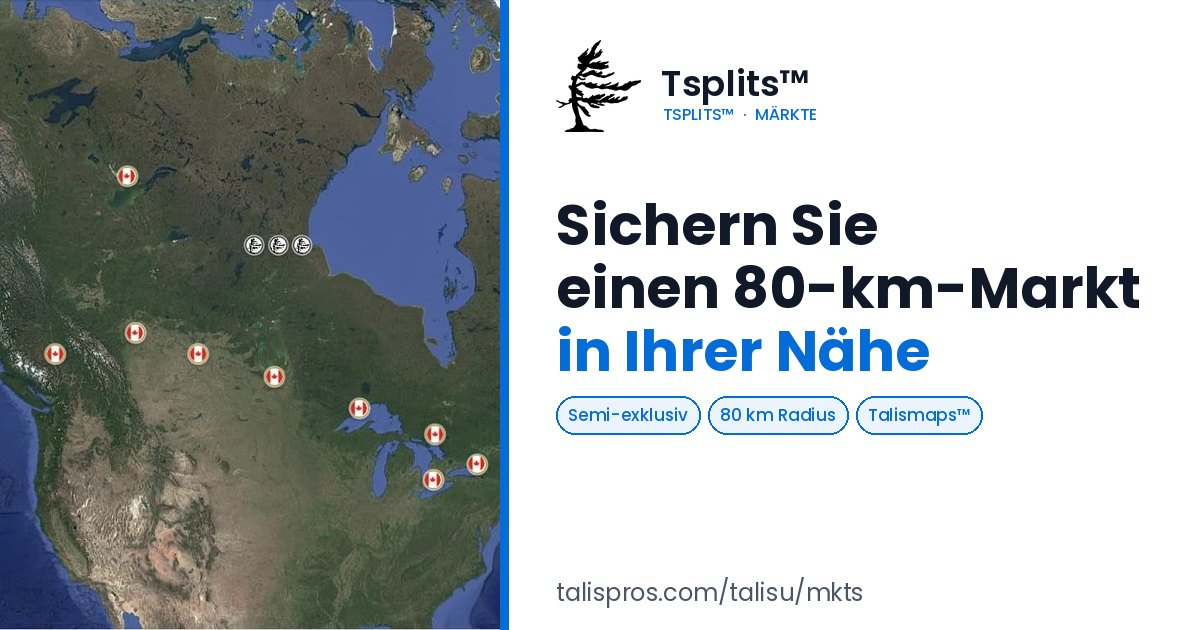
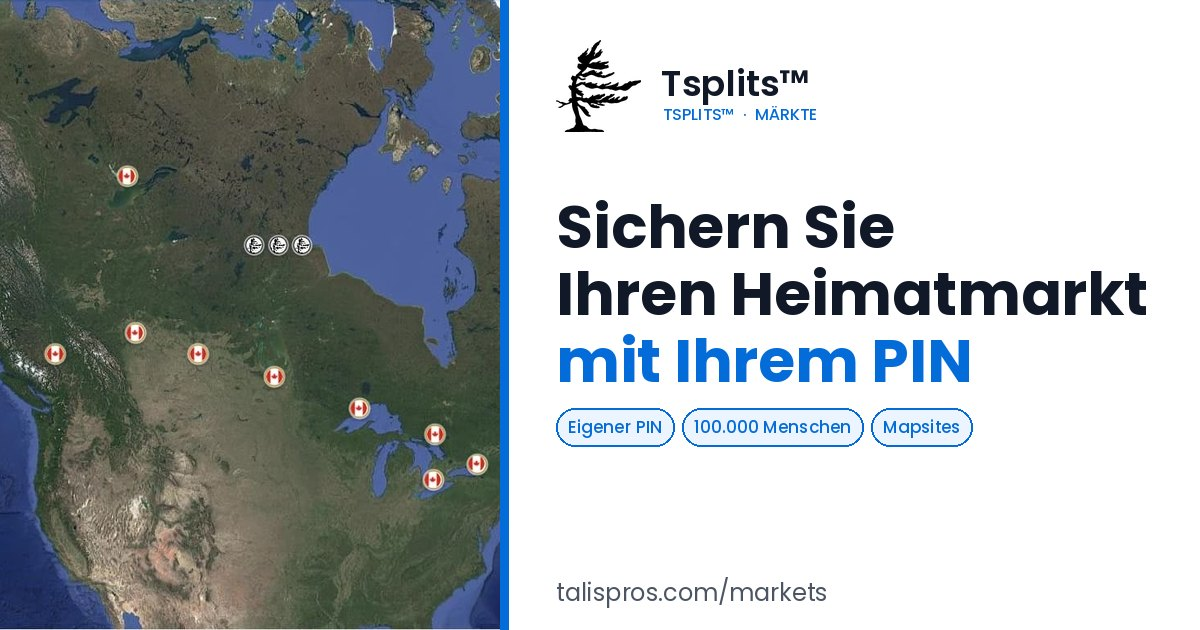
Home Market headline above the map; Markets SEO and footers no longer say one PIN is one market

Changed region(s): [[0.4625, 0.4222, 0.9558, 0.7238], [0.4625, 0.3016, 0.74, 0.3921], [0.6167, 0.9048, 0.74, 0.9651]]

diff --git a/components/talispros/home-market/HomeMarketPage.tsx b/components/talispros/home-market/HomeMarketPage.tsx
@@ -49,17 +49,20 @@ export default function HomeMarketPage({ initialMarket = null }: { initialMarket
         <AishaColumn />
       </aside>
       <section className="order-1 flex min-h-0 flex-col lg:order-2">
-        {/* The Tsplits™ Mapsites header stays; the map takes the old headline row (Ralf, Nov 23). */}
-        <div className="bg-white px-5 py-2.5 text-center sm:px-6 lg:py-2">
+        {/* Header, then the headline directly above the map on every screen size (Ralf, Nov 23). */}
+        <div className="bg-white px-5 pb-2 pt-2.5 text-center sm:px-6">
           <p className="m-0 text-[11px] font-semibold uppercase tracking-[0.16em] text-neutral-500" data-testid="home-market-kicker">
             {t.kicker}
           </p>
-          {/* Phones: the map comes first, so the headline sits above it. */}
-          <p className="m-0 mt-1 text-[17px] font-semibold leading-snug text-neutral-950 lg:hidden" data-testid="home-market-select-pin-mobile">
+          <h1
+            className="m-0 mt-1 text-[17px] font-semibold leading-snug text-neutral-950 sm:text-[20px]"
+            style={{ color: "#0a0a0a", fontSize: "clamp(17px, 1.6vw, 20px)", marginBottom: 0 }}
+            data-testid="home-market-select-pin"
+          >
             {t.selectPin}
-          </p>
+          </h1>
         </div>
-        <div className="relative h-[66dvh] min-h-[22rem] lg:h-auto lg:min-h-0 lg:flex-1">
+        <div className="relative h-[70dvh] min-h-[24rem] lg:h-auto lg:min-h-0 lg:flex-1">
           <HomeMarketMap placed={placed} onPlace={setPlaced} onPersonalize={setMarket} />
         </div>
       </section>
@@ -89,12 +92,6 @@ function AishaColumn() {
           <p className="m-0 mt-0.5 text-[22px] font-semibold text-neutral-950">{t.aishaName}</p>
         </div>
       </div>
-      <h1
-        className="m-0 mt-4 hidden rounded-2xl rounded-tl-sm bg-[#f4f6f8] px-4 py-3 text-[18px] font-semibold leading-snug text-neutral-950 lg:block"
-        data-testid="home-market-select-pin"
-      >
-        {t.selectPin}
-      </h1>
 
       <div className="mt-6 overflow-hidden rounded-2xl bg-white shadow-[0_4px_18px_rgba(0,0,0,0.08)] ring-1 ring-black/5" data-testid="home-market-sample">
         <div className="flex items-center justify-between bg-[#046BD9] px-4 py-2.5 text-white">

diff --git a/lib/i18n/dictionaries/de.ts b/lib/i18n/dictionaries/de.ts
@@ -767,7 +767,7 @@ export const de: Dictionary = {
     ],
     pmcTagline: "Bewerben - Verwalten - Kooperieren",
     footer:
-      "Wählen Sie den PIN, der Ihnen am nächsten liegt, um einen Markt im Umkreis von 80 Kilometern um einen Mittelpunkt zu beanspruchen.",
+      "Sichern Sie Ihren Heimatmarkt, indem Sie Ihren eigenen PIN auf der Mapsites-Karte setzen.",
     canada: "Kanada",
     canadaMarkets: "Märkte Kanada",
     usaMarkets: "Märkte USA",
@@ -784,7 +784,7 @@ export const de: Dictionary = {
       failed: "Die Karte ist gerade nicht verfügbar. Bitte versuchen Sie es in Kürze erneut.",
     },
     us: {
-      footer: "Wählen Sie den PIN Ihrer Region, um einen von 30 US-Märkten zu beanspruchen.",
+      footer: "Sichern Sie Ihren Heimatmarkt, indem Sie Ihren eigenen PIN auf der Mapsites-Karte setzen.",
       anchorsLabel: "Ankerstädte",
     },
     noMatches: "Keine Treffer",
@@ -1697,7 +1697,7 @@ export const de: Dictionary = {
     talisuMarkets: {
       title: "Tsplits™ | Unsere Märkte",
       description:
-        "Wählen Sie den PIN, der Ihnen am nächsten liegt, um einen Markt im Umkreis von 80 Kilometern als teilexklusives Gebiet zu beanspruchen.",
+        "Setzen Sie Ihren eigenen PIN in Kanada oder den USA und sichern Sie einen Heimatmarkt mit 100.000 Menschen (+/-) auf der Tsplits™ Mapsites-Karte.",
     },
     root: {
       title: "Talishouse | Häuser & Cottages",

diff --git a/lib/i18n/dictionaries/en.ts b/lib/i18n/dictionaries/en.ts
@@ -414,7 +414,7 @@ export const en = {
     },
     /** USA Markets page (/talisu/mkts/usa): footer + US market card copy. */
     us: {
-      footer: "Select your region's PIN to claim one of 30 US markets.",
+      footer: "Claim your Home Market by placing your own PIN on the Mapsites map.",
       anchorsLabel: "Anchor cities",
     },
     noMatches: "No matches",
@@ -1339,7 +1339,7 @@ export const en = {
     talisuMarkets: {
       title: "Tsplits™ | Markets served",
       description:
-        "Select the PIN nearest you to claim a market of 80 kilometres around a centre point as semi-exclusive territory. Semi-exclusive means no other markets will be granted within that circle, but neighbouring markets will not be prevented from pinning Listings for which they have written and verified listing documentation.",
+        "Place your own PIN in Canada or the USA to claim a Home Market of 100,000 people (+/-) on the Tsplits™ Mapsites map.",
     },
     root: {
       title: "Talishouse | Homes & Cottages",

diff --git a/lib/talisu/markets-pins.ts b/lib/talisu/markets-pins.ts
@@ -78,7 +78,7 @@ export const TALISU_MKTS_DO_MORE_PIN_SIZE = 58;
 
 /** Markets page bottom write-up (Arun, Oct 31): ends at "...around a centre point." */
 export const TALISU_MKTS_FOOTER =
-  "Select the PIN nearest you to claim a market of 80 kilometres around a centre point.";
+  "Claim your Home Market by placing your own PIN on the Mapsites map.";
 
 export const TALISU_MKTS_PMC_TITLE = "Tsplits™ PMC";
 

diff --git a/scripts/og/pages_src.py b/scripts/og/pages_src.py
@@ -46,19 +46,19 @@ add("/start", "start", "public", MAP,
      "Sichern Sie Ihren Markt auf Tsplits™. Die Mapsite setzt Sie auf die Karte, damit Käufer und Partner Sie finden. Entdecken Sie Talisbooks™.",
      "TSPLITS™  ·  START", ["Sichern Sie", "Ihren Markt auf", "Tsplits™"], ["Mapsites", "Talisbooks™"]))
 add("/markets", "talisu-mkts", "public", MAP,
-    ("Markets Served: Claim an 80 km Market | Tsplits™",
-     "Select the PIN nearest you to claim a semi-exclusive market of 80 km around a centre point on the Talismaps™ market map.",
-     "TSPLITS™  ·  MARKETS", ["Claim an", "80 km market", "near you"], ["Semi-exclusive", "80 km radius", "Talismaps™"]),
-    ("Bediente Märkte: 80-km-Markt sichern | Tsplits™",
-     "Wählen Sie den PIN in Ihrer Nähe und sichern Sie einen semi-exklusiven Markt im Umkreis von 80 km um einen Mittelpunkt auf Talismaps™.",
-     "TSPLITS™  ·  MÄRKTE", ["Sichern Sie", "einen 80-km-Markt", "in Ihrer Nähe"], ["Semi-exklusiv", "80 km Radius", "Talismaps™"]))
+    ("Markets Served: Claim Your Home Market | Tsplits™",
+     "Place your own PIN in Canada or the USA to claim a Home Market of 100,000 people (+/-) on the Tsplits™ Mapsites map.",
+     "TSPLITS™  ·  MARKETS", ["Claim your", "Home Market", "with your PIN"], ["Your own PIN", "100,000 people", "Mapsites"]),
+    ("Bediente Märkte: Heimatmarkt sichern | Tsplits™",
+     "Setzen Sie Ihren eigenen PIN in Kanada oder den USA und sichern Sie einen Heimatmarkt mit 100.000 Menschen (+/-) auf der Tsplits™ Mapsites-Karte.",
+     "TSPLITS™  ·  MÄRKTE", ["Sichern Sie", "Ihren Heimatmarkt", "mit Ihrem PIN"], ["Eigener PIN", "100.000 Menschen", "Mapsites"]))
 add("/markets/usa", "talisu-mkts-usa", "public", PIN,
-    ("USA Markets: Claim One of 30 US Markets | Tsplits™",
-     "Select your region's PIN to claim one of 30 proprietary US markets, each a contiguous region of about 8 to 12 million people, on Talismaps™.",
-     "TSPLITS™  ·  USA MARKETS", ["Claim one of", "30 US markets", "in your region"], ["30 markets", "8–12M people", "Talismaps™"]),
-    ("Märkte USA: Einen von 30 US-Märkten sichern | Tsplits™",
-     "Wählen Sie den PIN Ihrer Region und sichern Sie einen von 30 US-Märkten, je eine Region mit etwa 8 bis 12 Mio. Einwohnern, auf Talismaps™.",
-     "TSPLITS™  ·  MÄRKTE USA", ["Sichern Sie einen", "von 30 US-Märkten", "in Ihrer Region"], ["30 Märkte", "8–12 Mio. Einwohner", "Talismaps™"]))
+    ("USA Markets: Claim Your Home Market | Tsplits™",
+     "Place your own PIN anywhere in the USA to claim a Home Market of 100,000 people (+/-) on the Tsplits™ Mapsites map.",
+     "TSPLITS™  ·  USA MARKETS", ["Claim your", "US Home Market", "with your PIN"], ["Your own PIN", "100,000 people", "Mapsites"]),
+    ("Märkte USA: Heimatmarkt sichern | Tsplits™",
+     "Setzen Sie Ihren eigenen PIN irgendwo in den USA und sichern Sie einen Heimatmarkt mit 100.000 Menschen (+/-) auf der Tsplits™ Mapsites-Karte.",
+     "TSPLITS™  ·  MÄRKTE USA", ["Sichern Sie Ihren", "US-Heimatmarkt", "mit Ihrem PIN"], ["Eigener PIN", "100.000 Menschen", "Mapsites"]))
 add("/catalogue", "catalogue", "public", TDOME,
     ("Talishouse™ Product Catalogue | Tsplits™",
      "Browse the Talishouse™ Product Catalogue. Every design is numbered (P01, P02…); tap one to register for that product.",
